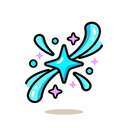
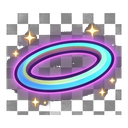
release: v1.7.0 프리미엄 UI 아이콘 15종 + 랭킹 히어로 + AI Hub 아바타
[release: v1.7.0] [cache: bookquest-v20260423222056]

diff --git a/index.html b/index.html
@@ -315,11 +315,25 @@
     // 📚 BookQuest — 독서 모험 앱 with Voice
     // ═══════════════════════════════════════
 
-    const APP_VERSION = "1.6.0";
+    const APP_VERSION = "1.7.0";
     const APP_BUILD_DATE = "2026-04-23";
     const ADMIN_PIN = "0925";
 
     const CHANGELOG = [
+      {
+        version: "1.7.0",
+        date: "2026-04-23",
+        title: "프리미엄 UI 아이콘 15종 + 랭킹 히어로 + AI Hub 아바타",
+        changes: [
+          "Nano Banana로 생성한 프리미엄 다크 판타지 UI 아이콘 15종 전면 교체 (치비 스티커에서 마법 아이템 감성으로)",
+          "AI Hub 3카드 아이콘 교체 — 마법 스크롤 말풍선 · 펼쳐진 책+? · 3권 책+나침반 (각 256×256)",
+          "하단 네비바 5탭 아이콘 교체 — 마법 타워 · 퀘스트 스크롤 · 수정구 · 월계수 · 보물상자 (각 128×128)",
+          "상점 카테고리 7탭 아이콘 교체 + shop_avatar 신규 추가 — 황금 액자 · 헤일로 링 · 마법사 고깔 · 크리스탈 안경 · 발자국 메달 · 깃펜+지팡이 · 후드 영웅 실루엣",
+          "주간 랭킹 상단 명예의 전당 히어로 리디자인 — bg_ranking_hall 배경 + HALL OF FAME 골드 타이틀 + 배틀 CTA 글로우 + 내 순위 왕좌 카드",
+          "상점 카테고리 버튼에서 avatar 이모지 fallback 제거 (shop_avatar.png 사용)",
+          "UI_ICON_FALLBACK에 nav_mission · nav_ai · shop_avatar 이모지 폴백 보강"
+        ]
+      },
       {
         version: "1.6.0",
         date: "2026-04-23",
@@ -1998,6 +2012,9 @@
       theme_literature: "📖", theme_science: "🔬", theme_economy: "💰",
       theme_environment: "🌱", theme_philosophy: "💭",
       theme_law: "⚖", theme_history: "🏛", theme_media: "📱",
+      nav_mission: "📋",
+      nav_ai: "🤖",
+      shop_avatar: "👤",
     };
     const Icon = ({ name, size = 24, style = {}, alt }) => {
       const src = `icons/v1/${name}.png`;
@@ -6604,6 +6621,7 @@
           {
             key: "avatarChat",
             emoji: "💬",
+            iconSrc: "icons/v1/ai_hub_chat.png",
             title: `${avatarProfile.name}와 대화하기`,
             desc: booksCompletedCount > 0
               ? `같이 읽은 책 ${booksCompletedCount}권을 기억하는 내 아바타와 1:1 토론`
@@ -6616,6 +6634,7 @@
           {
             key: "askbook",
             emoji: "💡",
+            iconSrc: "icons/v1/ai_hub_ask.png",
             title: "책에게 질문하기",
             desc: "읽은 책 내용에 대해 무엇이든 물어보세요. AI가 답해드려요",
             tag: "AI 질문",
@@ -6626,6 +6645,7 @@
           {
             key: "recommend",
             emoji: "📖",
+            iconSrc: "icons/v1/ai_hub_recommend.png",
             title: "다음 책 추천받기",
             desc: `${profile?.name || "건우"}의 독서 이력과 아바타 성향에 딱 맞는 책을 추천`,
             tag: "AI 추천",
@@ -6718,12 +6738,12 @@
                   onMouseLeave={e => { e.currentTarget.style.transform = "scale(1)"; }}
                 >
                   <div style={{
-                    fontSize: c.primary ? 44 : 36,
-                    width: c.primary ? 64 : 54, height: c.primary ? 64 : 54,
+                    width: c.primary ? 72 : 60, height: c.primary ? 72 : 60,
                     display: "flex", alignItems: "center", justifyContent: "center",
-                    background: "rgba(255,255,255,0.2)", borderRadius: 16, flexShrink: 0
+                    flexShrink: 0, filter: "drop-shadow(0 4px 10px rgba(0,0,0,0.25))"
                   }}>
-                    {c.emoji}
+                    <img src={c.iconSrc} alt={c.key} style={{ width: "100%", height: "100%", objectFit: "contain" }}
+                      onError={(e) => { e.target.style.display = "none"; const s = document.createElement("div"); s.textContent = c.emoji; s.style.fontSize = (c.primary ? 44 : 36) + "px"; e.target.parentNode && e.target.parentNode.appendChild(s); }} />
                   </div>
                   <div style={{ flex: 1, minWidth: 0 }}>
                     <div style={{ display: "flex", alignItems: "center", gap: 6, marginBottom: 4 }}>
@@ -7311,7 +7331,7 @@
                     style={{ padding: "6px 12px", borderRadius: 20, border: "none", fontSize: 11, fontWeight: 700, cursor: "pointer", whiteSpace: "nowrap", display: "inline-flex", alignItems: "center", gap: 4,
                       background: shopCategory === cat.id ? "#667eea" : "#f0f0f5",
                       color: shopCategory === cat.id ? "white" : "#666" }}>
-                    {cat.id === "avatar" ? <span>{cat.emoji}</span> : <Icon name={`shop_${cat.id}`} size={14} />} {cat.name}
+                    <Icon name={`shop_${cat.id}`} size={16} /> {cat.name}
                   </button>
                 ))}
               </div>

diff --git a/sw.js b/sw.js
@@ -5,7 +5,7 @@
 // (it replaces `bookquest-v<ts>` with a fresh timestamp), so
 // browsers detect sw.js bytes differ and install the new SW.
 // ═══════════════════════════════════════════════════════
-const CACHE_NAME = 'bookquest-v20260423215756';
+const CACHE_NAME = 'bookquest-v20260423222056';
 
 // Only precache files that actually exist at repo root.
 const ASSETS_TO_CACHE = [
